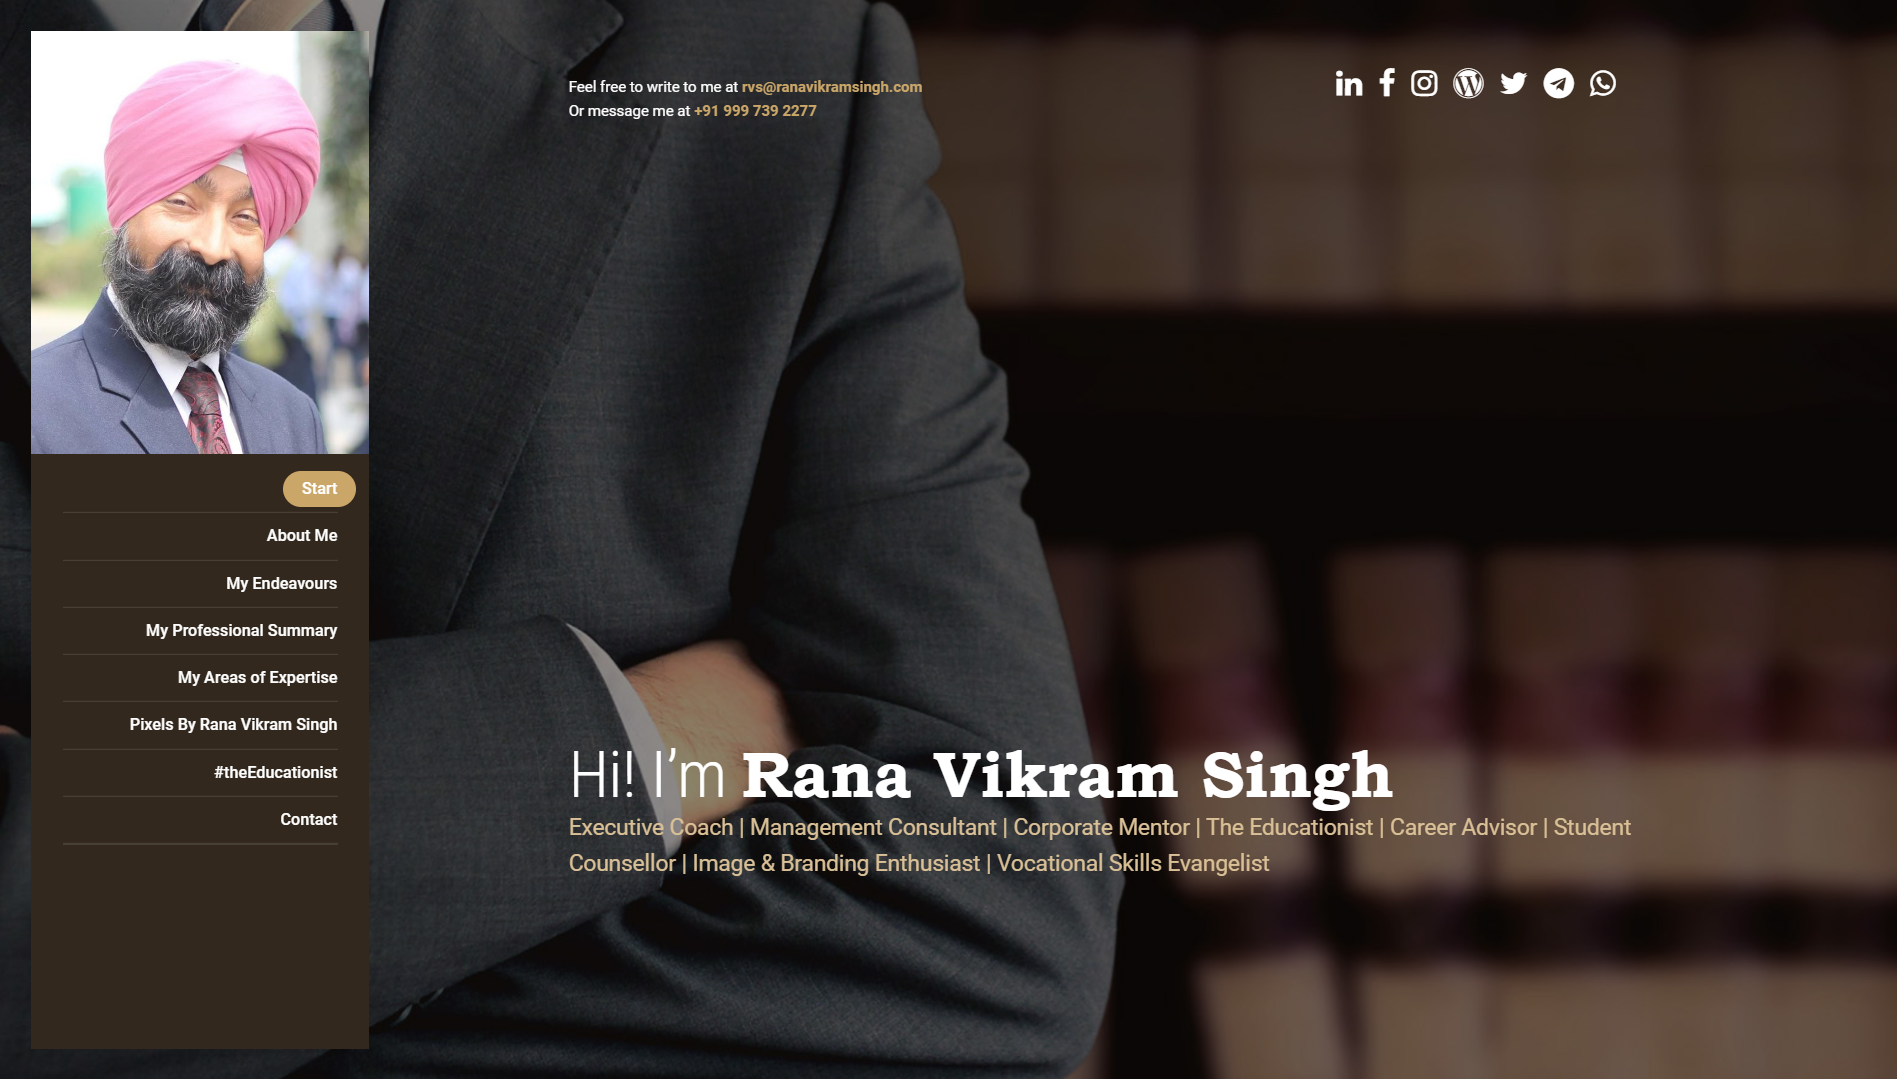
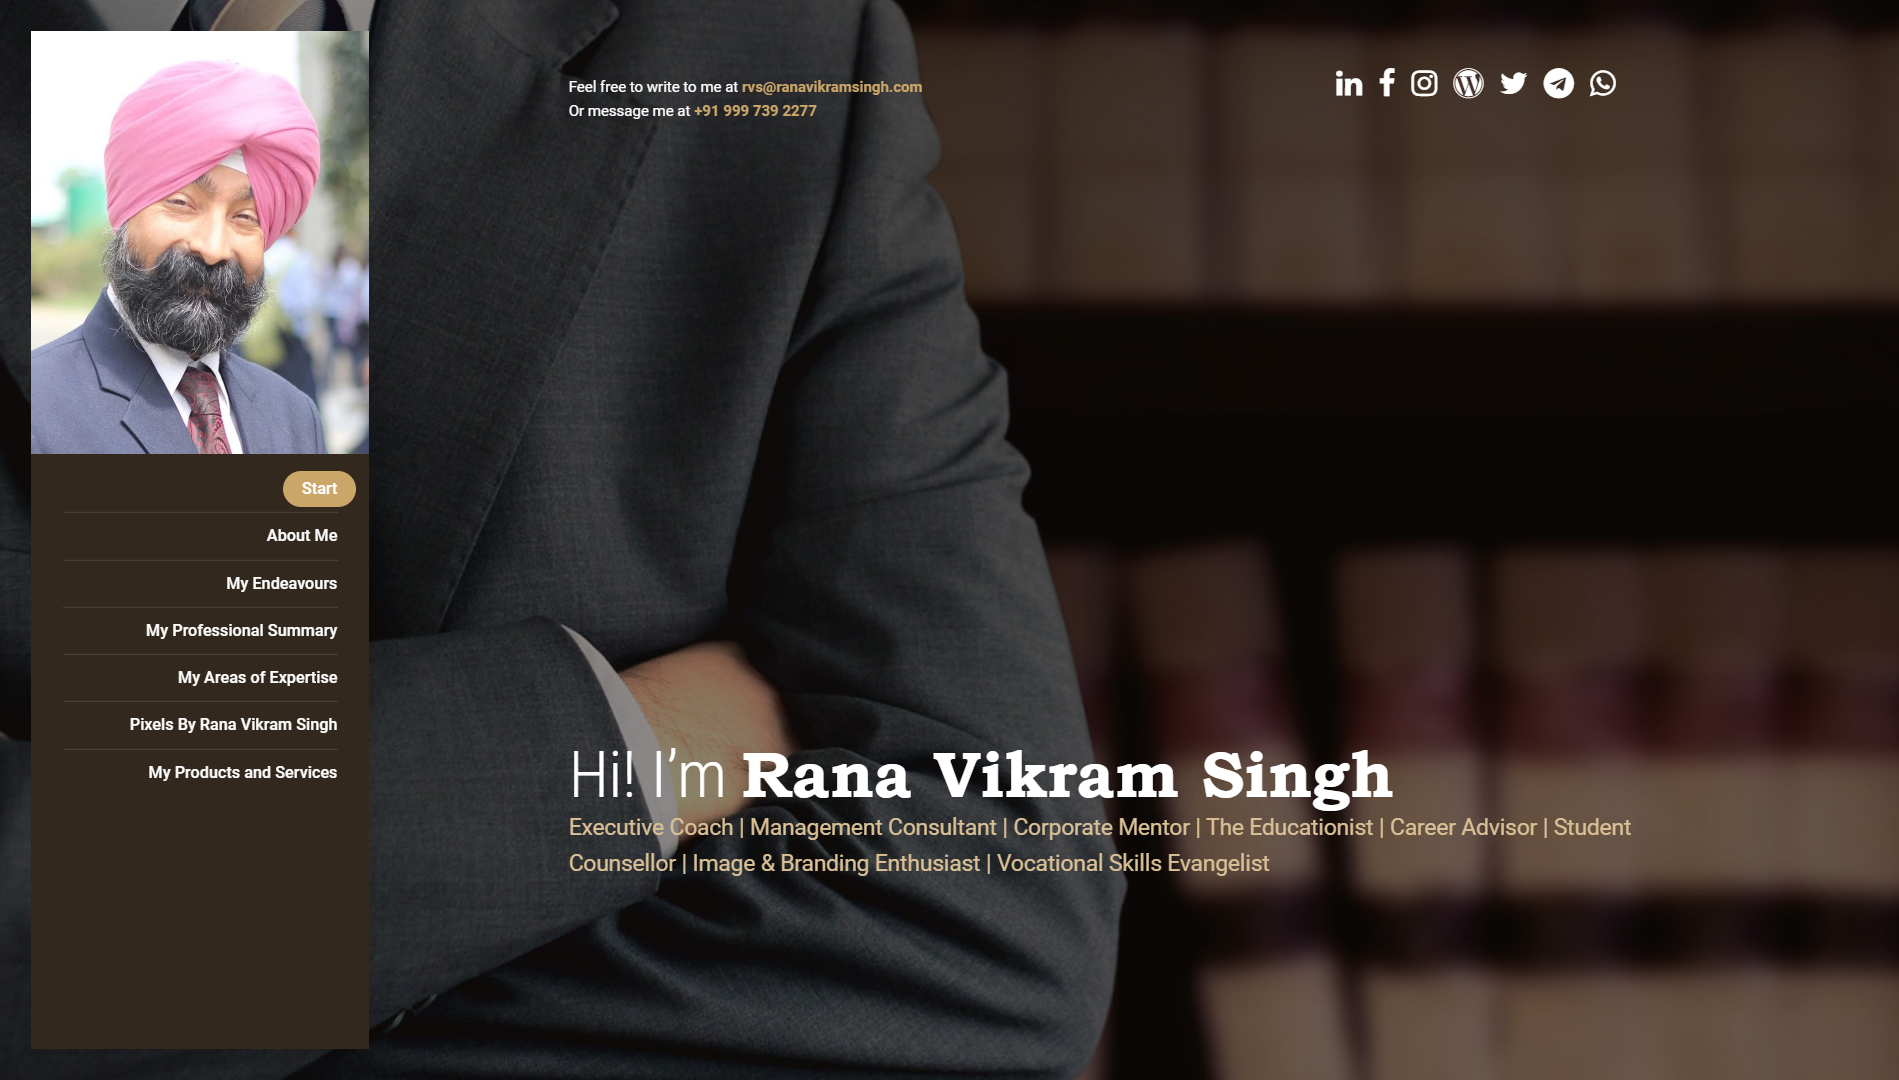
services

diff --git a/index.html b/index.html
@@ -34,10 +34,8 @@
     <li><a href="#my_endeavours"><span>My Endeavours</span></a></li>
     <li><a href="#my_professional_summary"><span>My Professional Summary</span></a></li>
     <li><a href="#my_areas_of_expertise"><span>My Areas of Expertise</span></a></li>
-	<li><a href="#portfolio"><span>Pixels By Rana Vikram Singh</span></a></li>  
-	<li><a href="#contact"><span>Contact</span></a></li>
-	<li></li>
-	<li></li>
+    <li><a href="#portfolio"><span>Pixels By Rana Vikram Singh</span></a></li>  
+    <li><a href="#services"><span>My Products and Services</span></a></li>  
 </ul>
 </nav>
 
@@ -70,7 +68,7 @@
     
 <!-- Middle -->
 
-<div class="container container-wide v-bottom padding-v-80">
+<div class="container container-wide v-bottom padding-v-80" >
 <h1 class="text-lg margin-b-0">Hi! I&rsquo;m <strong style="font-family: 'Bookman Old Style';">Rana Vikram Singh</strong></h1>
 
 <p class="text-tertiary margin-b-40" style="font-size: 18px; color: #d9c096;">Executive Coach | Management Consultant | Corporate Mentor | The Educationist | Career Advisor | Student Counsellor | Image & Branding Enthusiast | Vocational Skills Evangelist</p>
@@ -78,7 +76,7 @@
 </section>
 <!-- Section - Home / End --><!-- Section - Resume -->
 
-<section class="section padding-v-60" ><!-- Content -->
+<section class="section padding-v-60" style="background-color: #F8F8F8;"><!-- Content -->
 <div class="container container-wide">
 <h6 class="margin-b-50"></h6>
 
@@ -290,19 +288,98 @@ Hobbies include Reading Books, Writing Prose, Watching Movies and Candid Photogr
 </section>
 
 
-<section class="section padding-v-60 min-fullheight" id="contact">
 
-<div class="contact-box bg-secondary dark animated" data-animation="flipInY">
-<h1>Feel free to <strong>contact me</strong>!</h1>
-<!-- Contact List -->
+<section id="services" style="background-color:whitesmoke;">
+    <h2 align="center" style="padding-top: 2%;">My Product &amp; Services</h2>
+    
+    <!-- END OUR BACKGROUND -->
+        <div class="section">
+          <div class="container cont1">
+            <div class="row home-feature-row reverse-on-sm">
+              <div class="col col-12 col-md-4 col-sm-12">
+                <div class="feature-img-wrapper">
+                    <img src="assets/img/swayam.png" sizes="(max-width: 479px) 90vw, (max-width: 767px) 250px, (max-width: 991px) 45vw, 37vw" data-w-id="10ba5662-516e-a67b-8c74-318d3025f65d" style="opacity: 1;" alt="" class="feature-img">
+    
+                  <div style="margin-left: 45%; margin-top: 2%;">
+                  <a href="https://www.linkedin.com/company/theeducationistsutra/" style="color: black; margin-right:10px;" target="_blank"><i class="fa fa-linkedin fa-2x"></i></a>
+                </div>
+    
+                </div>
+              </div>
+              <div class="col col-12 col-md-8 col-sm-12">
+                <div data-w-id="10ba5662-516e-a67b-8c74-318d3025f64f" style="opacity: 1; " class="feature-block small right">
+                  <h3><br>Swayam: Self-Management Program </h3><br>
+                  <div class="feature-block-indent small"><p style="font-size: 20px;"> The Art &amp; Science of Success and Happiness and the First Step Towards Being A Professional.</p>
+                    <ul style="font-size: 18px;" class="area">
+                        <li>Based on the Principles of 4-Quadrants of Life</li>
+                        <li>A must for Schools, Colleges, Universities, Institutions, Corporate Houses and Organizations</li>
+                        <li>Custom-designed for Students, Parents, Teachers, Job-Seekers, Self-Employed, Working Personnel & Entrepreneurs</li>
+                    </ul>      
+                  </div>
+                </div>
+              </div>
+            </div>
+          </div>
+        </div>
+    <br><br>
 
-<ul class="list-unstyled list-unstyled-icons">
-	<li>National Capital Region India</li>
-	<li><a href="#">rvs@ranavikramsingh.com</a></li>
-	<li>+91 9997392277</li>
-</ul>
-<a class="btn btn-primary" data-target="messenger" href="#"><span>Use Contact Form</span></a></div>
-</section>
+        <div class="section">
+          <div class="container">
+            <div class="row home-feature-row">
+              <div class="col col-12 col-md-8 col-sm-12">
+                <div data-w-id="4f673a92-cdaa-60de-057a-04ba2d2db009" style="opacity:1" class="feature-block small">
+                  <h3 class="feature-heading"><br>The Equilibrium – Executive Coaching & Advisory Services   </h3>
+                  <div class="feature-block-indent small">
+                    <ul style="font-size: 18px;" class="area">
+                        <li>Executive Coaching & Advisory Services are about balancing the different aspects of personal, professional, social and spiritual life by seeing the blind spots, by providing strategic planning, offering advisory towards being responsible & accountable. </li><br>
+                        <li>Implementing different kinds of tools to help Executives to become focused in their defined areas of business or personal life to achieve a fulfilling balance between professional goals and personal development, and carve out themselves as the ideal version of oneself.</li>
+                    </ul>
+                    
+                  </div>
+                </div>
+              </div>
+              <div class="col col-12 col-md-4 col-sm-12">
+                <div class="feature-img-wrapper"><img src="assets/img/the-equilibrium.png"  sizes="(max-width: 479px) 90vw, (max-width: 767px) 360px, (max-width: 991px) 37vw, 29vw" data-w-id="4f673a92-cdaa-60de-057a-04ba2d2db017" style="opacity:1" alt="" class="feature-img" />
+                  <div style="margin-left: 45%; margin-top: 2%;">
+                  <a href="https://www.linkedin.com/company/theequilibriumecas" style="color: black; margin-right:10px;" target="_blank"><i class="fa fa-linkedin fa-2x"></i></a>
+              </div>
+                </div>
+              </div>
+            </div>
+          </div>
+        </div>
+        <br><br>
+        <div class="section">
+          <div class="container">
+            <div class="row home-feature-row reverse-on-sm">
+              <div class="col col-12 col-md-4 col-sm-12">
+                <div class="feature-img-wrapper"><img src="assets/img/pixels.png"  sizes="(max-width: 479px) 90vw, (max-width: 767px) 360px, (max-width: 991px) 37vw, 29vw" data-w-id="f1d20152-95d0-2214-7463-d4e00c67498b" style="opacity:1" alt="" class="feature-img" />
+                 <div  style="margin-left: 45%; margin-top: 2%;"> 
+                  <a href="https://www.facebook.com/pixelsbyranavikramsingh/" style="color: black; margin-right:10px;" target="_blank"><i class="fa fa-facebook fa-2x"></i></a>
+                 </div>
+                </div>
+              
+              </div>
+              <div class="col col-12 col-md-8 col-sm-12">
+                <div data-w-id="f1d20152-95d0-2214-7463-d4e00c67498d" style="opacity:1" class="feature-block small right">
+                  <h3><br>#pixelsbyranavikramsingh - Candid Photography</h3>
+                  <div class="feature-block-indent small">
+                    <ul style="font-size: 16px;" class="area">
+                        <li>It all started with clicking pictures with my mobile phones Nokia E-5, 5-megapixel and Samsung Galaxy S Duos 8-megapixel.<br> And now, this simple interest has taken deep roots as a full-time hobby, and I have upgraded from mobile phones to Canon EOS 600D.
+                            <br># Portfolio Shooting # Event Coverage # Nature Photography
+                            </li>
+                    </ul>
+                <br><br>
+                    
+                  </div>
+                </div>
+              </div>
+            </div>
+          </div>
+        </div>
+        
+ 
+    </section>
 <!-- Section - Contact / End --><!-- Content / End --><!-- Ajax Wrapper & Loader -->
 
 <!-- FB Like -->
